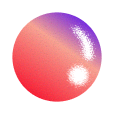
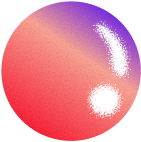
0502

diff --git a/flutter_application_1/lib/mood_selection_screen.dart b/flutter_application_1/lib/mood_selection_screen.dart
@@ -17,12 +17,12 @@ class _MoodSelectionScreenState extends State<MoodSelectionScreen> {
     // 🌟 召喚字典
     final loc = AppLocalizations.of(context)!;
 
-    // 🌟 1. 將類別清單移到這裡，並換成字典變數
-    final List<String> categories = [
-      loc.categoryWarm,
-      loc.categoryCalm,
-      loc.categoryStorm,
-      loc.categoryMixed,
+    // 🌟 1. 將類別清單升級為包含圖片路徑的 Map
+    final List<Map<String, String>> categories = [
+      {'name': loc.categoryWarm, 'image': 'assets/warmtime.png'},   // 請替換成你實際的圖片檔名
+      {'name': loc.categoryCalm, 'image': 'assets/silentfeel.png'},
+      {'name': loc.categoryStorm, 'image': 'assets/emotionstrom.png'},
+      {'name': loc.categoryMixed, 'image': 'assets/weavemood.png'},
     ];
 
     // 🌟 1. 改寫 warmMoods (把 colors 換成 image)
@@ -31,7 +31,7 @@ class _MoodSelectionScreenState extends State<MoodSelectionScreen> {
       {'name': loc.moodJoy, 'image': 'assets/joy.png'},             // 喜悅
       {'name': loc.moodExpectant, 'image': 'assets/expect.png'},    // 期待
       {'name': loc.moodBlessed, 'image': 'assets/happiness.png'},     // 幸福
-      {'name': loc.moodAtEase, 'image': 'assets/ease.png'},         // 安心
+      {'name': loc.moodRelieved, 'image': 'assets/ease.png'},         // 安心
       {'name': loc.moodPeaceful, 'image': 'assets/calm.png'},           // 平靜
       {'name': loc.moodHope, 'image': 'assets/hope.png'},           // 希望
       {'name': loc.moodLove, 'image': 'assets/love.png'},           // 愛
@@ -113,14 +113,15 @@ class _MoodSelectionScreenState extends State<MoodSelectionScreen> {
                     onPressed: () => Navigator.pop(context),
                   ),
                 ),
-                const SizedBox(height: 10),
+                const SizedBox(height: 40),
                 // 🌟 使用字典的提示文字 (我們直接沿用首頁的 homePromptText)
                 Text(
                   loc.homePromptText,
                   style: const TextStyle(fontSize: 18, color: Color(0xFF5D4037), fontWeight: FontWeight.w500),
                 ),
+                const SizedBox(height: 30),
                 SizedBox(
-                  height: 200,
+                  height: 280,
                   child: Image.asset('assets/bottle.png', fit: BoxFit.contain), 
                 ),
               ],
@@ -130,7 +131,7 @@ class _MoodSelectionScreenState extends State<MoodSelectionScreen> {
           Align(
             alignment: Alignment.bottomCenter,
             child: Container(
-              height: MediaQuery.of(context).size.height * 0.55,
+              height: MediaQuery.of(context).size.height * 0.48,// 🌟 降到底部佔比 48%
               width: double.infinity,
               decoration: const BoxDecoration(
                 color: Color(0xFFFFF6D9),
@@ -139,7 +140,7 @@ class _MoodSelectionScreenState extends State<MoodSelectionScreen> {
               ),
               child: Column(
                 children: [
-                  const SizedBox(height: 30),
+                  const SizedBox(height: 70),
                   Expanded(
                     child: SingleChildScrollView(
                       child: Padding(
@@ -185,7 +186,7 @@ class _MoodSelectionScreenState extends State<MoodSelectionScreen> {
           ),
 
           Positioned(
-            top: MediaQuery.of(context).size.height * 0.45 - 40,
+            top: MediaQuery.of(context).size.height * 0.52 - 40,// 🌟 配合下方高度改變，把基準線往下降，因為 1 - 0.48 = 0.52
             left: 0,
             right: 0,
             child: Row(
@@ -243,9 +244,9 @@ class _MoodSelectionScreenState extends State<MoodSelectionScreen> {
               name,
               style: const TextStyle(
                 fontSize: 14,
-                color: Color(0xFF5D4037),
+                color: Color.fromARGB(255, 210, 121, 96),
                 fontWeight: FontWeight.bold,
-                shadows: [Shadow(color: Colors.white70, blurRadius: 2)],
+                shadows: [Shadow(color: Color.fromARGB(255, 255, 255, 255), blurRadius: 1)],
               ),
             ),
           ],
@@ -253,31 +254,37 @@ class _MoodSelectionScreenState extends State<MoodSelectionScreen> {
       ),
     );
   }
-  // 🌟 把它貼在檔案的最下面，補回你遺失的分類按鈕函數！
-  Widget _buildCategoryIcon(int index, String categoryName) {
+  // 🌟 更新接收的參數型別為 Map<String, String>
+  Widget _buildCategoryIcon(int index, Map<String, String> categoryData) {
     final bool isSelected = _selectedCategoryIndex == index;
+    final String categoryName = categoryData['name']!;
+    final String imagePath = categoryData['image']!; // 抓出圖片路徑
+
     return GestureDetector(
-      // 👇 就是這行程式碼讓上面的藍線消失的！它負責切換頁面
       onTap: () => setState(() => _selectedCategoryIndex = index),
       child: Column(
         children: [
-          Container(
-            width: 50,
-            height: 50,
+          // 1. 分類圖示 (使用 Figma 圖片)
+          AnimatedContainer(
+            duration: const Duration(milliseconds: 200),
+            width: isSelected ? 55 : 45,   // 選中時稍微放大
+            height: isSelected ? 55 : 45,
             decoration: BoxDecoration(
               shape: BoxShape.circle,
-              color: isSelected ? Colors.white : Colors.white60,
-              border: isSelected ? Border.all(color: Colors.white, width: 2) : null,
-              boxShadow: isSelected ? [const BoxShadow(color: Colors.black12, blurRadius: 5)] : [],
+              // 如果被選中，可以加個發光陰影讓它更明顯
+              boxShadow: isSelected ? [const BoxShadow(color: Colors.white70, blurRadius: 10)] : [],
             ),
-            // 💡 小提醒：如果你在 Figma 也有匯出上面那四顆代表分類的大圖示
-            // 之後可以把這個 Container 換成 Image.asset 喔！
+            child: ClipOval(
+              child: Image.asset(imagePath, fit: BoxFit.cover),
+            ),
           ),
           const SizedBox(height: 5),
+          // 2. 分類文字
           Container(
             padding: const EdgeInsets.symmetric(horizontal: 10, vertical: 4),
             decoration: BoxDecoration(
-              color: isSelected ? Colors.white : Colors.transparent,
+              // 選中時文字底下可以墊個白色背景，或是維持透明
+              color: isSelected ? const Color.fromARGB(255, 255, 203, 203) : Colors.transparent,
               borderRadius: BorderRadius.circular(15),
             ),
             child: Text(

diff --git a/flutter_application_1/lib/l10n/app_localizations_en.dart b/flutter_application_1/lib/l10n/app_localizations_en.dart
@@ -444,13 +444,13 @@ class AppLocalizationsEn extends AppLocalizations {
   String get moodSad => 'Sad';
 
   @override
-  String get moodDesperate => 'Desperate';
+  String get moodDesperate => 'Despair';
 
   @override
   String get moodAshamed => 'Ashamed';
 
   @override
-  String get moodBreakdown => 'Breakdown';
+  String get moodBreakdown => 'Crumble';
 
   @override
   String get moodIrritable => 'Irritable';
@@ -465,7 +465,7 @@ class AppLocalizationsEn extends AppLocalizations {
   String get moodWeary => 'Weary';
 
   @override
-  String get moodUnderstood => 'Understood';
+  String get moodUnderstood => 'Got it';
 
   @override
   String get moodIgnored => 'Ignored';